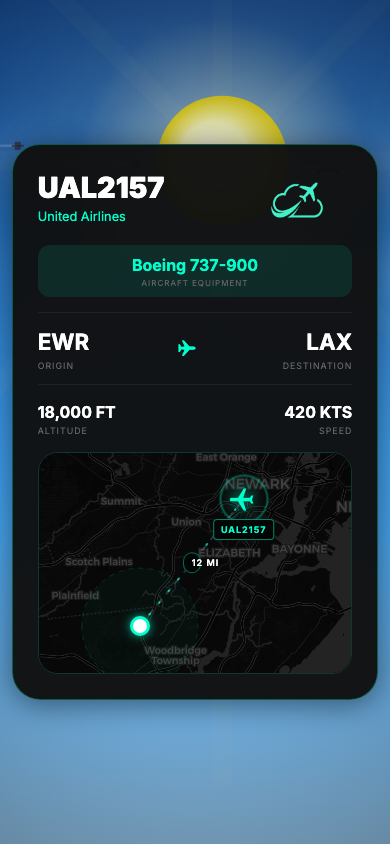
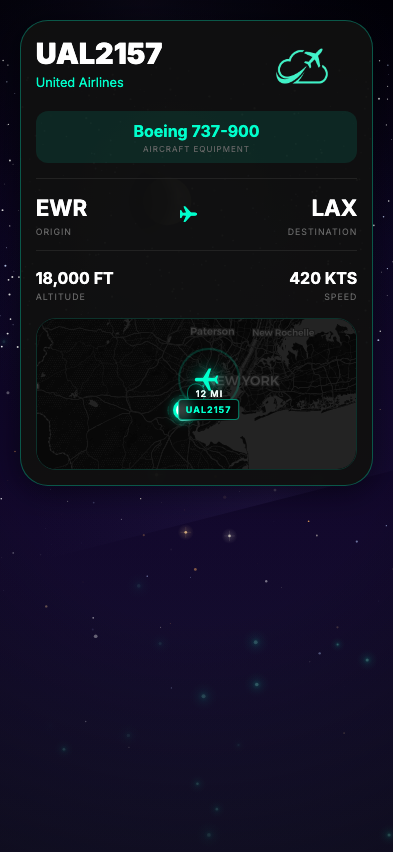
Phone compatible

diff --git a/README.md b/README.md
@@ -21,12 +21,18 @@ A real-time local airspace monitor that shows the nearest aircraft overhead — 
 </tr>
 <tr>
 <td align="center" width="50%">
+<img src="screenshots/03-live-day.png" alt="Live flight card – day" />
+<br/><sub><b>Live flight card — aircraft photo, route, telemetry, and map</b></sub>
+</td>
+<td align="center" width="50%">
 <img src="screenshots/04-live-night.png" alt="Live flight card – night" />
 <br/><sub><b>Live flight card — night mode, dark CartoDB map</b></sub>
 </td>
+</tr>
+<tr>
 <td align="center" width="50%">
 <img src="screenshots/05-mobile.png" alt="Mobile view" />
-<br/><sub><b>Mobile — iPhone-sized portrait view</b></sub>
+<br/><sub><b>Mobile — compact card with sky visible above and below</b></sub>
 </td>
 </tr>
 </table>
